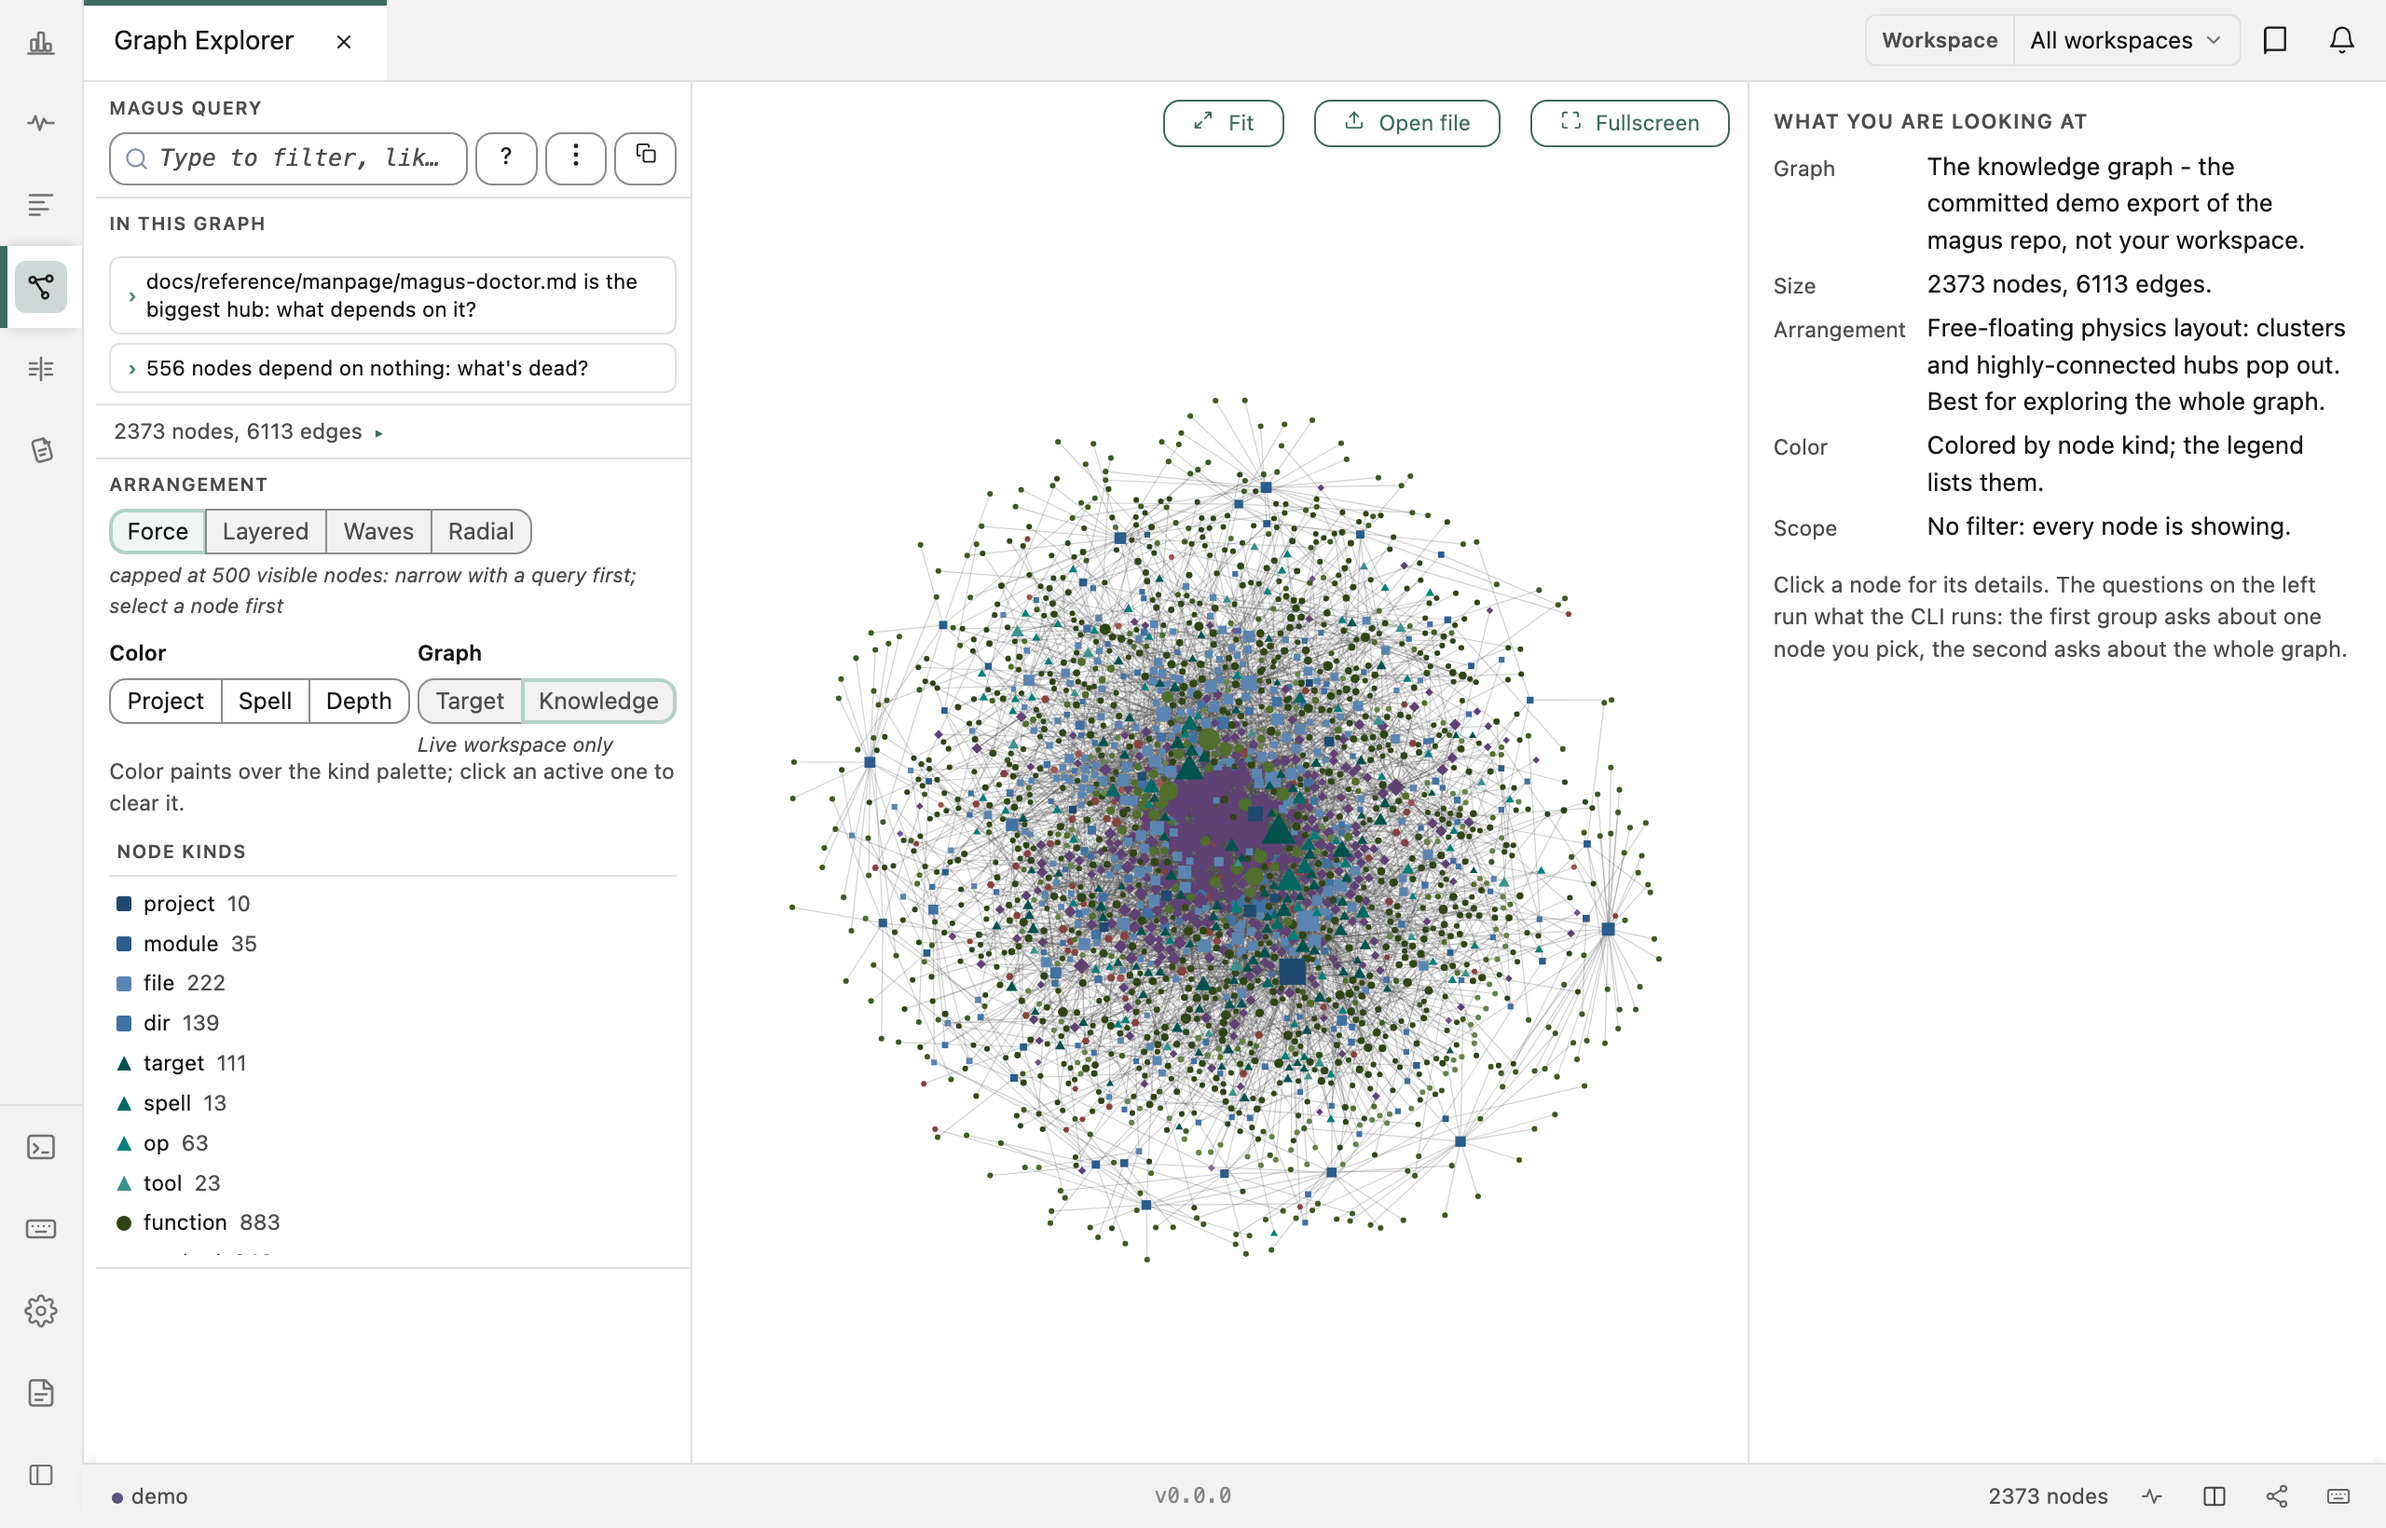
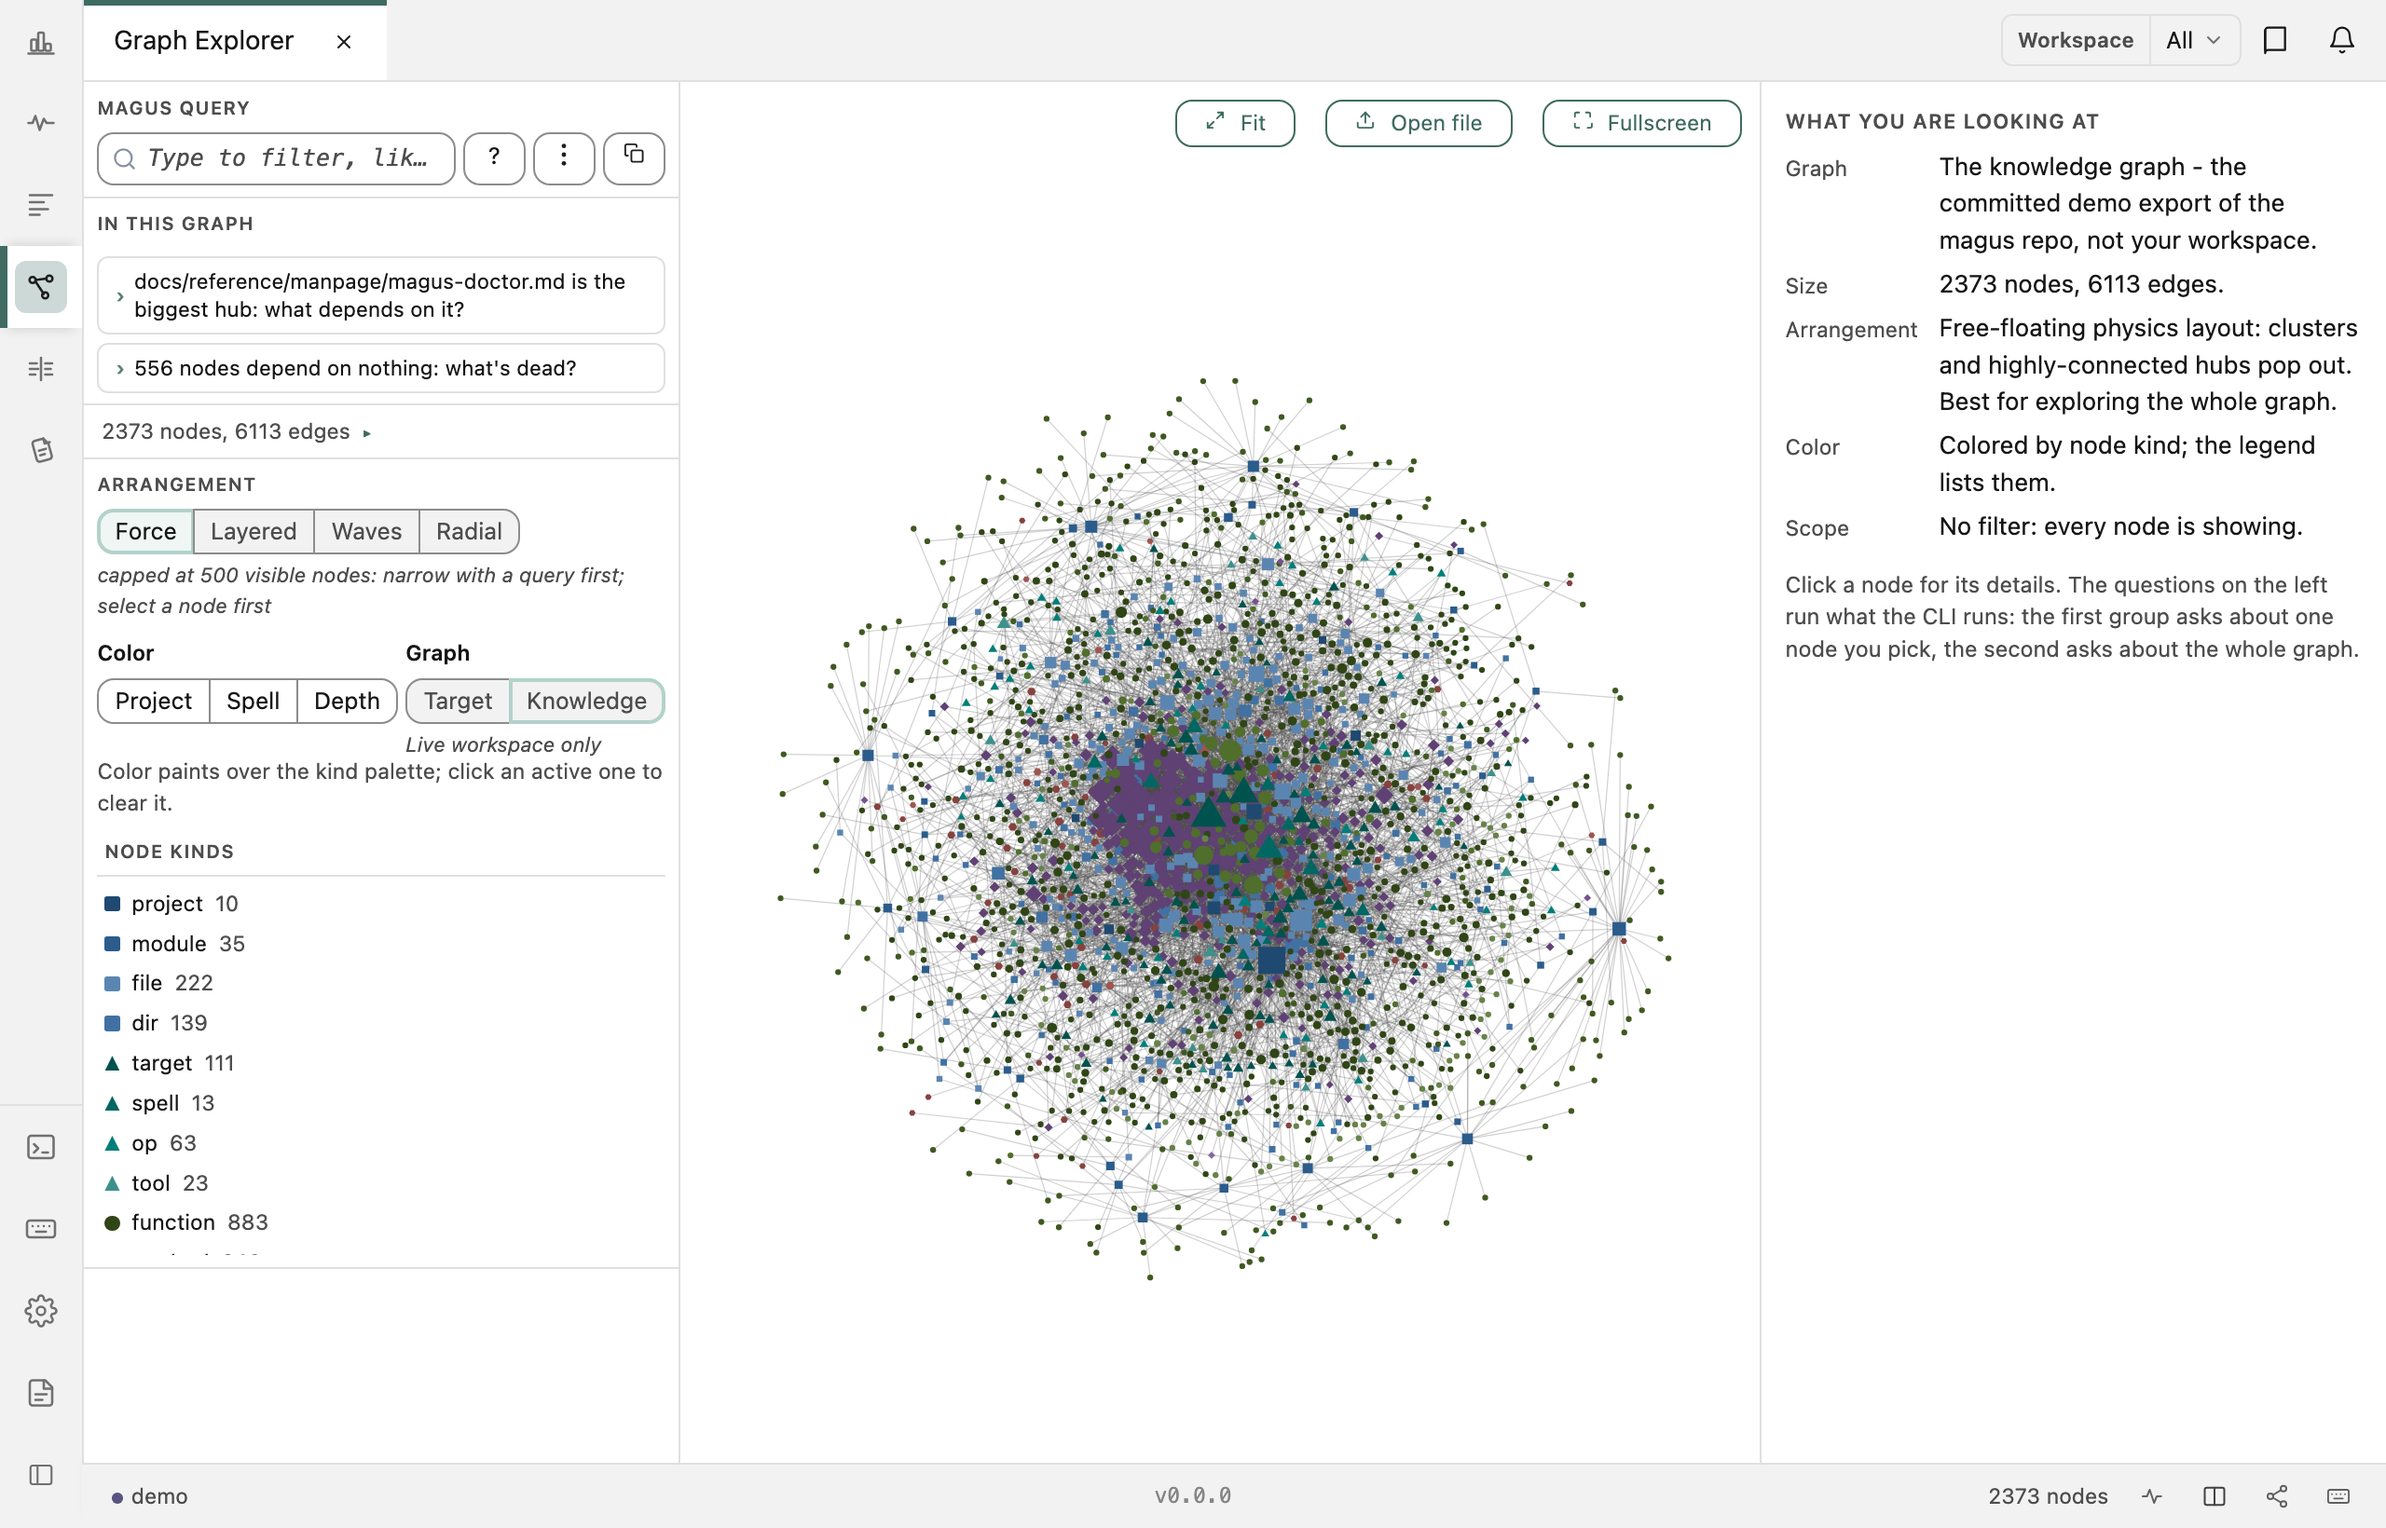
drop the surface gutter that read as a strip beside the rail; reshoot

diff --git a/console/src/styles/console.css b/console/src/styles/console.css
@@ -203,9 +203,11 @@ body[data-console-fill] > main > .console-render-panel {
   flex-direction: column;
   max-width: none;
   margin-inline: 0;
-  /* A slim side gutter so a surface (esp. the log viewer) stretches nearly edge-to-edge instead of
-     keeping Pico's ~1rem .container-fluid inset - the console owns the whole width. */
-  padding-inline: 0.4rem;
+  /* Zero, not Pico's ~1rem .container-fluid inset: the console owns the whole width. It was a slim
+     0.4rem gutter, which read as a white strip down the seam between the rail and the surface -
+     this main is transparent, so the gutter showed the page ground against the rail's own surface
+     rather than any deliberate spacing. Surfaces that want breathing room set their own padding. */
+  padding-inline: 0;
 }
 #console-outlet div[data-pane-id] > main > .console-graph-app,
 #console-outlet div[data-pane-id] > main > .console-render-panel,
